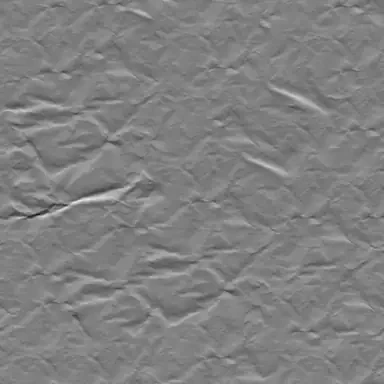
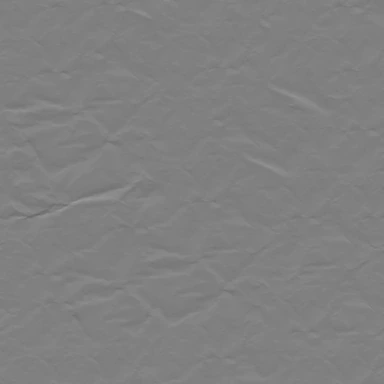
Night is smooth paper, not foil
The night texture was the same scan at four times the amplitude the mock had,
and that is the whole difference. `rough` is a *crumple* map -- its variation is
large-scale creases rather than fibre -- and on a near-black ground creases read
as foil however dark the ground is. The mock you picked the palette from
measured sd 2.06; what I shipped measured 11.7.

Same scan, same seamless tile, amplitude 0.22: sd 2.60. Surface you notice when
you are not reading, and nothing past that. Day is untouched -- fibre at sd 4.93
on cream is grain, and grain is what a page of a notebook has.

The rendered-tone assertion now runs on both surfaces rather than only on day,
so the night sheet has to come out #0d131e the way the day sheet has to come out
#efe9d8. The grain-is-present half stays day-only, with the reason written down:
night is deliberately smooth, and asserting variation there would be asserting
the thing I have just removed.

71 browser tests.

diff --git a/web/tests/notebook.spec.ts b/web/tests/notebook.spec.ts
@@ -224,21 +224,32 @@ test("the grain is a texture, not a filter over the paper", async ({ page }) => 
   // carries no tone. Multiplied over cream that is a 40% neutral-density filter, and the page came
   // out the colour of concrete while every token still said it was paper.
   //
-  // So: the sheet as painted must be the cream it claims to be, within the rounding that a texture
-  // and an 8-bit blend cost. Two channels of slack, no more -- ten would let the whole failure back.
-  const sheet = await sheetPaper(page);
-  const token = await page.evaluate(() =>
-    getComputedStyle(document.documentElement).getPropertyValue("--paper").trim(),
-  );
-  const where = `the sheet is rgb(${sheet.rgb.join(" ")}) sd ${sheet.sd.toFixed(2)}, --paper is ${token}`;
-  for (const [index, channel] of sheet.rgb.entries()) {
-    const intended = [0xef, 0xe9, 0xd8][index]!;
-    expect(Math.abs(channel - intended), `${where}, and the design is #efe9d8`).toBeLessThanOrEqual(3);
-  }
+  // So: the sheet as painted must be the colour it claims to be, on both surfaces, within the
+  // rounding that a texture and an 8-bit blend cost. Three levels of slack, no more -- ten would
+  // let the whole failure back in.
+  for (const [surface, intended] of [
+    ["day", [0xef, 0xe9, 0xd8]],
+    ["night", [0x0d, 0x13, 0x1e]],
+  ] as const) {
+    if (surface === "night") await surfaceIs(page, "Night");
+    const sheet = await sheetPaper(page);
+    const where = `the ${surface} sheet is rgb(${sheet.rgb.join(" ")}) sd ${sheet.sd.toFixed(2)}`;
 
-  // And the other half of it: a texture that shifts no tone is easy to arrive at by having no
-  // texture. There has to be grain in the patch, or this is a flat fill with a story attached.
-  expect(sheet.sd, `${where} -- no variation, so there is no grain`).toBeGreaterThan(1);
+    for (const [index, channel] of sheet.rgb.entries()) {
+      expect(
+        Math.abs(channel - intended[index]!),
+        `${where}, and the palette says ${intended.map((v) => v.toString(16).padStart(2, "0")).join("")}`,
+      ).toBeLessThanOrEqual(3);
+    }
+
+    // And the other half of it, on the surface where the grain is meant to be seen: shifting no
+    // tone is easy to achieve by having no texture. Only the day paper is asserted to have any,
+    // because night is deliberately four times smoother -- its map is large-scale creases rather
+    // than fibre, and at any real amplitude on a near-black ground that reads as foil.
+    if (surface === "day") {
+      expect(sheet.sd, `${where} -- no variation, so there is no grain`).toBeGreaterThan(1);
+    }
+  }
 });
 
 test("the surface is a three-way choice, and it survives a reload", async ({ page }) => {

diff --git a/web/src/styles/tokens.css b/web/src/styles/tokens.css
@@ -73,11 +73,17 @@
     `soft-light`, where 128 is -- so each one now adds its variation and changes no tone. The
     deviation is what a texture is; the mean was never part of it.
 
-        fibre  mean 152.2 sd 16.25  ->  mean 250.5 sd 4.93   (day, multiply)
-        rough  mean 139.8 sd 11.70  ->  mean 127.8 sd 11.70  (night, soft-light)
+        fibre  mean 152.2 sd 16.25  ->  mean 250.5 sd 4.93  (day, multiply)
+        rough  mean 139.8 sd 11.70  ->  mean 127.8 sd 2.60  (night, soft-light)
+
+    Night is the smoother of the two on purpose, and by a factor of four. `rough` is a *crumple*
+    map: its variation is large-scale creases rather than fibre, and at full amplitude on a
+    near-black ground that reads as foil rather than as paper. The mock this palette was chosen
+    from measured 2.06, so this is the same scan at the amplitude that was actually agreed --
+    surface you notice when you are not reading, and nothing more.
 
     Greyscale, because the blend modes only ever use luminance, and 384px because grain is
-    high-frequency noise that does not reward resolution: 42 KB for both surfaces.
+    high-frequency noise that does not reward resolution: 35 KB for both surfaces.
   */
   --grain: url("../assets/paper/fibre.webp");
   --grain-size: 384px;
